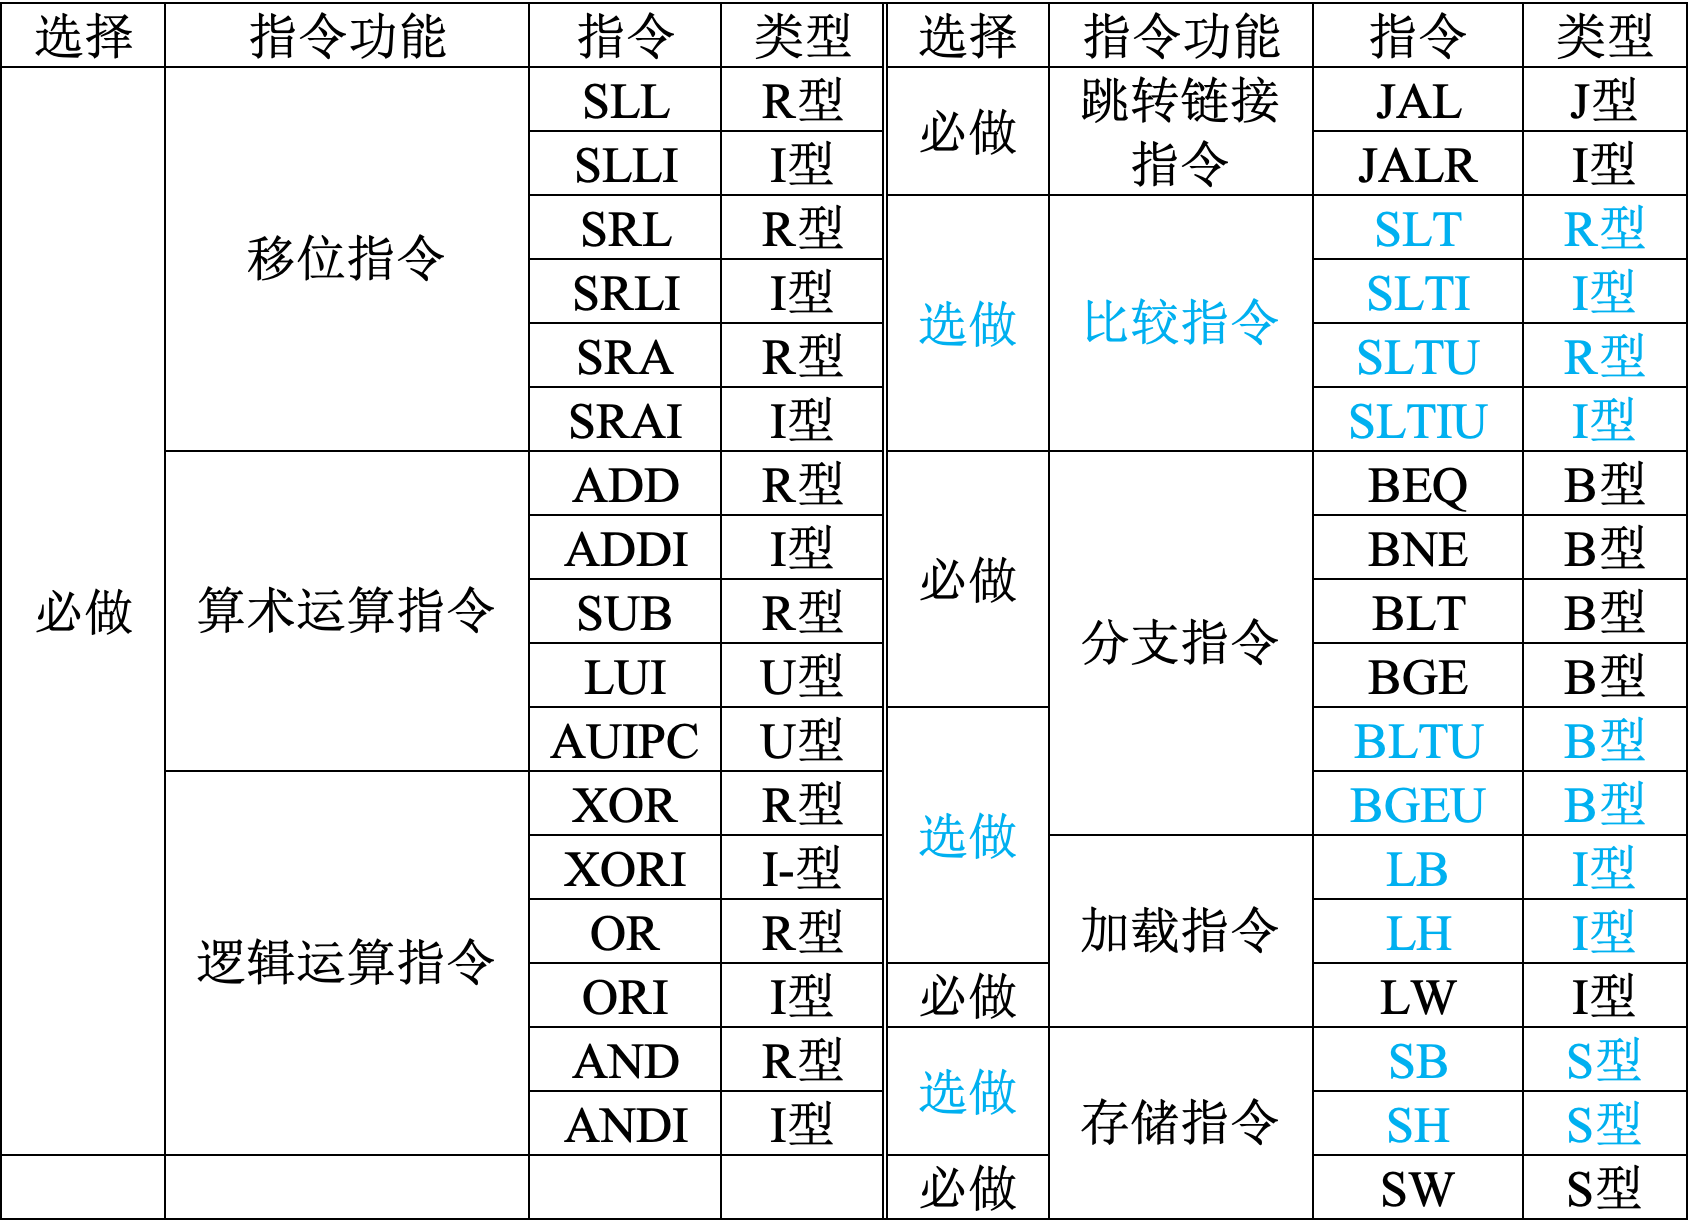
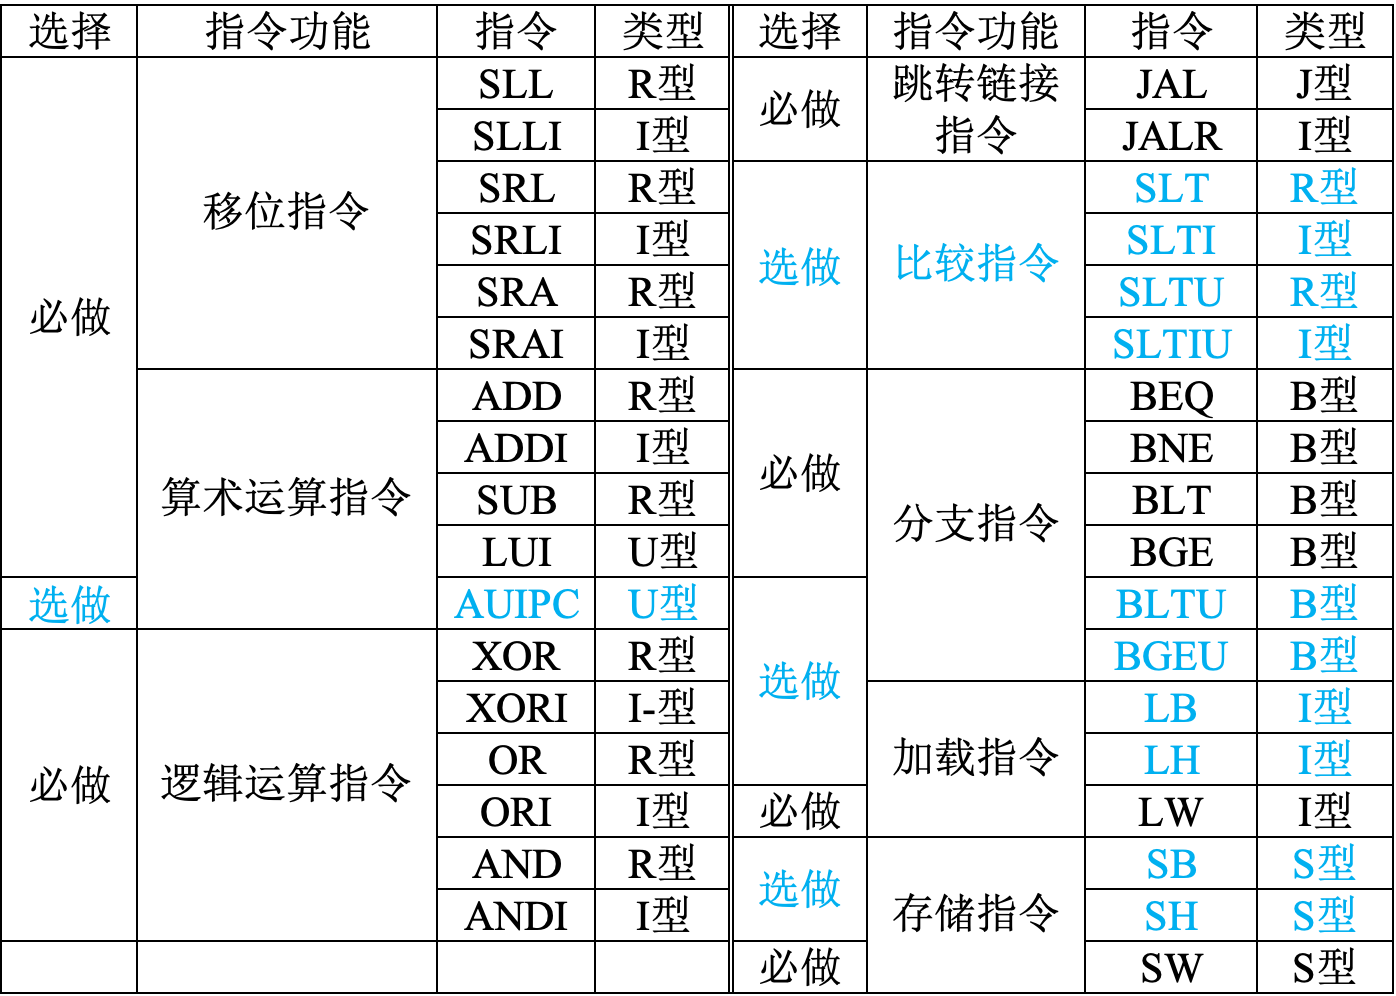
upload lab2

diff --git a/docs/lab2/6-verify.md b/docs/lab2/6-verify.md
@@ -1,46 +1,26 @@
-# 单周期CPU功能测试
+&emsp;&emsp;在数字逻辑设计的实验课程中，我们已经学习了如何使用时序仿真来对数字电路进行功能验证。所谓仿真，指的是基于软件模拟 (而非电路实测)的方法来验证电路功能，其基本原理如图7-1所示。
 
-本实验使用test_bench进行测试，相关文件见“单周期测试包”，所含文件如图，func目录下文件的作用可以查看"单周期测试包/func/Readme_firs.txt"。
+<center><img src = "../assets/7-1.png" width = 550></center>
+<center>图7-1 仿真原理</center>
 
-![测试文件](./asset/cpu_test/test_file_dir1.png)
+&emsp;&emsp;在图7-1中，我们给待验证电路 (DUT, Design Under Test) 添加一些特定的输入激励，然后观察DUT的输出结果是否符合我们的预期。其中，输入激励和输出结果的检查合称为test bench。
 
-测试文件参考龙芯杯竞赛提供的测试方法，单周期、多周期、流水等都可以使用，测试的原理是检测PC、寄存器写使能、写入寄存器号、写入寄存器的数据，这四者是否对应。
-所以需要正确引出debug_wb_pc、debug_wb_rf_wen、debug_wb_rf_wnum、debug_wb_rf_wdata这四根信号，才能使用该测试文件。同时，顶层文件中的CPU时钟命名为clock。
+&emsp;&emsp;显然，CPU也是数字电路，当然也可以采用时序仿真的方法对其进行功能验证，但验证效率较低。一方面，CPU的顶层模块通常只包含时钟、复位以及和存储芯片及外设进行交互的信号。仅通过对顶层模块进行验证，验证结果一旦出错，难以定位错误点。因此，只能分模块进行验证，或者借助外设输出相应的调试信息。另一方面，出错点很有可能在通过测试程序的逻辑路径传递很远之后，才能被发现。为了提高验证效率，可以将图7-1中的输入激励从物理信号更换成一段特定的指令序列，并通过观察程序执行结果来验证CPU功能。这种方法虽然大幅提高了验证效率，但无法解决难以定位错误点的问题。
 
-## 添加debug信号
-为支持指定tb，需要在顶层模块中共加入4个debug信号，具体信号如图所示，各信号功能参见对应注释。
+&emsp;&emsp;一种更好的验证方法是使用Trace比对，这也是本课程所使用的方法。所谓Trace，是指CPU执行指令序列时产生的信息 (包括PC和写寄存器的信息等)。
 
-![加入debug信号](./asset/cpu_test/debug_singal_code.png)
+&emsp;&emsp;Trace比对的基本原理如图7-2所示。
 
+<center><img src = "../assets/7-2.png" width = 500></center>
+<center>图7-2 Trace比对的基本原理</center>
 
-## 更新指令存储器中的程序
-运行simulation需要把提供的测试程序代码存入指令存储器中。如下图所示，将所给的"单周期测试包/inst_ram.coe"作为初始化文件加载到rom IP核。
-![加入debug信号](./asset/cpu_test/load_file.png)
+&emsp;&emsp;使用Trace比对进行CPU功能验证的基本方法是：
 
-## 添加测试相关文件
-添加全局的仿真文件mycpu_tb.v，方式同添加模块仿真文件，即右键"add sources"添加，内容参考所给的tb文件。 注意信号名是否与自己所写的模块是否一致，如不一致可以修改tb。
-另外所给mycpu_tb.v文件里的led2N4等信号在上板时才用到的，这里需要注释掉，即屏蔽tb文件中的下列信号
+&emsp;&emsp;(1) 用已知功能正确的CPU运行测试程序，记录Trace0 (Golden Trace)；
 
-![信号注释](./asset/cpu_test/signal_unmask.png)
+&emsp;&emsp;(2) 用待验证CPU运行相同的测试程序，产生Trace1；
 
-因mycpu_tb.v会从"golden_trace.txt"读取数据，需手动将该文件放在项目xx\minisys.sim\sim_1\behav\xsim目录下。
+&emsp;&emsp;(3) 将Trace1和Trace0进行实时比对，如果出现不同，立即报错并停止。
 
-## Run Simulation
-
-右键mycpu_tb.v进行"set as top"设置，执行"Run Simulation"，运行结束后会看到对应的波形，在tcl console窗口往上拉也可以看到是否通过的日志。
-
-执行"RUN ALL"可以看到tcl控制台的日志输出
-![run all](./asset/cpu_test/run_all.png)
-
-如果显示PASS则为通过
-![pass](./asset/cpu_test/test_success.png)
-
-## 根据提示查找错误
-如果不通过则结合日志信息和波形进行分析
-![failed](./asset/cpu_test/failed.png)
-
-波形分析时注意看pc地址变化时的值
-![波形分析](./asset/cpu_test/signal_info.png)
-
-inst_ram.coe机器码对应的汇编代码是"单周期测试包/func/obj/test.s"，可以根据PC值查看制定的代码。 
-![汇编文件](./asset/cpu_test/test_s_file.png)
+!!! PS
+    需要注意的是，Store指令执行时不存在寄存器写操作。这意味着如果Store指令出错，那么Trace比对法并不能立即发现并定位错误点，而只能在后续相关的Load指令出错 (并且一定会出错) 时报错并停止。

diff --git a/docs/lab2/4-ctrler.md b/docs/lab2/4-ctrler.md
@@ -1,13 +1,38 @@
-&emsp;&emsp;控制器的职责是根据指令的opcode和funct域计算每条指令在执行时控制信号取指。指令的控制信号包括根据指令控制部件完成不同功能的信号、部件的使能和多路选择器的选择控制，
+&emsp;&emsp;数据通路包含了完成处理器所要求的操作所必须的硬件，但数据通路要在控制器的控制下才能有条不紊地工作，才能正确地运行程序并得出程序员想要的结果。
 
-&emsp;&emsp;同时，还包括与控制相关的返回信号。我们可以由数据通路表中的部件及输入、输出情况推导出控制信号，如下图示例。
+&emsp;&emsp;控制器的功能是根据指令的功能码 (funct7和funct3)，产生指令执行所需的控制信号。控制信号一般包括3类：功能选择信号、多路选择信号和分支控制信号，如表5-1所示。
 
-![指令数据通路表](./asset/ctrl/instruction_model_2.png)
+<center>表5-1 控制信号分类</center>
+<center>
 
-&emsp;&emsp;接下来把控制信号添加到之前的数据通路结构图中，形成完整的数据通路结构图，如下
+| 控制信号类别 | 作用 | 数据通路的相关部件 |
+| :-: | :- | :- |
+| 操作选择信号 | 执行某条指令时，选择部件需要完成哪个操作 | 多功能部件 (如NPC、SEXT、ALU、RF、DRAM等) |
+| 多路选择信号 | 对多输入源进行选择 | 多路选择器 |
+| 分支控制信号 | 控制分支指令是否跳转 | ALU |
 
-![指令完整数据通路结构图](./asset/ctrl/full_data_path.png)
+</center>
 
-&emsp;&emsp;接下来，我们要确定控制信号的取值。根据上图，结合数据通路表及指令功能填写控制信号的取值表。
+!!! PS
+    之所以把RF、DRAM等存储器看作多功能部件，是因为它们兼有读数据、写数据2个功能。从这个角度看，写使能信号的功能就是控制存储器需要完成读操作还是写操作。换言之，使能信号也属于一种操作选择信号。
 
-![控制信号矩阵取值](./asset/ctrl/value_matrix.png)
+&emsp;&emsp;为了设计控制器，我们首先需要确定数据通路需要哪些控制信号。
+
+&emsp;&emsp;在上一节“数据通路设计”中，我们通过分析和综合，得出了整个CPU的数据通路。现在，让我们在表4-1的基础上进行扩展——在“完整”的下方新增“操作选择信号”、“多路选择信号”和“分支控制信号”三行；然后通过分析数据通路，得出每个功能部件所需的控制信号，并填入表中，如表5-2所示。
+
+<center>表5-2 扩展数据通路表，添加控制信号</center>
+<center><img src = "../assets/t5-2.png"></center>
+
+&emsp;&emsp;接下来，只需要把控制单元和控制信号添加到数据通路图中，即可得到形如图5-1的完整数据通路图。
+
+<center><img src = "../assets/5-1.png" width = 500></center>
+<center>图5-1 完整数据通路图 (示例)</center>
+
+&emsp;&emsp;确定了数据通路所需的控制信号之后，我们还需要确定控制信号的取值，进而得出每个控制信号的真值表。
+
+&emsp;&emsp;根据完整的数据通路图，结合数据通路表及指令功能，填写形如表5-3所示的控制信号取值表。
+
+<center>表5-3 控制信号取值表 (示例)</center>
+<center><img src = "../assets/t5-3.png" width = 550></center>
+
+&emsp;&emsp;确定了各控制信号的取值之后，就可以使用卡诺图对每个控制信号的逻辑表达式进行化简，最终完成控制单元的设计。

diff --git a/docs/lab2/3-datpth.md b/docs/lab2/3-datpth.md
@@ -1,12 +1,24 @@
-&emsp;&emsp;根据每条指令的描述及其指令格式，推演出指令执行过程包括的功能部件及其输入输出信号之间的连接关系，即指令级数据通路。
+&emsp;&emsp;在上一节“功能部件设计”中，我们为数据通路的路径设计了所需的“顶点”。现在，我们需要根据指令功能，将这些功能部件连接起来，形成路径的“边”。
+
+&emsp;&emsp;设计数据通路的基本思想是：根据每条指令的功能描述和指令格式，推演出指令执行过程所需的功能部件及其输入输出信号之间的连接关系，即指令级数据通路。
 
 &emsp;&emsp;在推演的过程中，还将分析功能部件需要执行的具体功能，并据此再推演相应的控制信号取值。
 
-&emsp;&emsp;在建模过程中，可能会面临基本功能部件不满足需求的问题，因此需要修改并完善已有基础功能部件，或者设计新的功能部件。
+&emsp;&emsp;本课程采用表格驱动设计的方法来构建数据通路，即通过数据通路表来描述数据通路。表4-1给出了7条miniRV-1指令构建数据通路表的示例。
 
-&emsp;&emsp;我们采用构建数据通路表的方式来描述数据通路，下图为8条指令构建的数据通路表示例。
-![指令建模](./asset/data_path/instruction_model.png)
+<center>表4-1 表格驱动的数据通路设计示例</center>
+<center><img src = "../assets/t4-1.png"></center>
 
-&emsp;&emsp;在数据通路表中，有些功能部件的输入信号具有2个以上的输入源，如RF的A3端口有3个输入来源。根据数字电路知识可知，需要部署一个MUX来实现上述需求。综合数据通路表，添加需要的MUX，或者采用其他方式处理多输入源的问题，如添加输入端口。综合数据通路表，构建数据通路结构图。
+!!! Tips
+    需要注意的是，表4-1所示的数据通路表仅仅是一个示例。在建模过程中，可能会面临基本功能部件不满足需求的问题，因此需要修改并完善已有基础功能部件，或者设计新的功能部件。
 
-![数据通路框架](./asset/data_path/data_path.png)
+&emsp;&emsp;对所有的指令进行分析，并将数据通路表填写完整后，就得到了每一条指令执行时的数据通路。为了设计CPU，我们还需要将所有指令的数据通路综合起来。
+
+&emsp;&emsp;综合的方法是：在如表4-1所示的数据通路表的最后新增一行“完整”，代表CPU的整个数据通路；然后将各个部件的输入信号全部整合到最后一行。
+
+&emsp;&emsp;在数据通路表中，有些功能部件的输入信号具有2个以上的输入源，如RF的wD端口有3个输入来源。我们已经学习过数字逻辑设计的课程，可知此时需要新增一个多路选择器来满足此需求。因此，在综合数据通路表时，需要视情况添加多路选择器 (或采用其他方式处理多输入源的问题，如添加输出端口等)，如图4-1所示。
+
+<center><img src = "../assets/4-1.png" width = 500></center>
+<center>图4-1 添加多路选择器，以解决多输入源的问题</center>
+
+&emsp;&emsp;最后，可将综合完成的数据通路表图形化，从而构建出CPU的数据通路图。

diff --git a/docs/lab2/5-timing.md b/docs/lab2/5-timing.md
@@ -1,30 +1,10 @@
-&emsp;&emsp;首先CPU中的部件可分为两大类：组合逻辑部件、时序逻辑部件。
+&emsp;&emsp;CPU内部既包含时序逻辑部件 (如PC、RF、DRAM)，也包含组合逻辑部件 (如IROM、控制单元、ALU等)。
 
-## 1. 组合逻辑部件
-&emsp;&emsp;运算器和控制器都是组合逻辑部件，组合逻辑部件当输入端信号的状态改变后，经过一定的逻辑门延迟时间，输出端的状态就会发生变化，并且一直维持到输入端状态再次发生变化。每个部件的延迟时间不等，但都是一小段的时间完成。如下图的实现方法中，Add指令除PC、RF为时序逻辑部件外，其他均为组合逻辑部件。
+&emsp;&emsp;对于时序逻辑电路，输入信号需要在时钟信号的有效边沿处满足相应的建立时间和保持时间的要求，而输出信号则相比时钟有效边沿存在一定的输出延迟。
 
-![时序逻辑部件分析](./asset/clk_seq/circuit_analyse.png)
+&emsp;&emsp;对于组合逻辑电路，当输入端信号发生改变，经过一定的逻辑门电路的延时，输出端就会发生相应的变化，并且一直维持直到输入端再次发生变化。
 
-## 2. 时序逻辑部件
+&emsp;&emsp;因此，CPU在执行指令时，会存在寄存器输出延迟、IROM读延迟、控制单元输出延迟、ALU运算延迟、寄存器写延迟等，这些延迟统称为指令的执行延迟。对于ADD指令，其执行延迟及时序如图6-1所示。
 
-&emsp;&emsp;PC、寄存器堆、存储器等需要存储数据的部件，一般是需要时序部件来完成，在完成数据改变的时候，需要一个时钟沿触发。
-
-&emsp;&emsp;在一条指令实现的数据通路上，完成串行的数据改变，需要不同的时钟沿来触发。
-
-&emsp;&emsp;例如下图的设计，其中PC、RF、DM在指令执行过程中，都需要改变值，必须是时序部件，第一个上升沿改变PC的值，第二个上升沿写回RF、DM，写入的内容下一个时钟周期才可读。
-
-![cpu实现组成](./asset/clk_seq/cpu_structure.png)
-
-![cpu顶层框架](./asset/clk_seq/im_dm.png)
-
-&emsp;&emsp;如果采用上述的设计，IM不能采用时序部件来实现。可以采用[Distributed Memory IP](https://www.xilinx.com/xsw/dist_mem_gen) （LUT-based）来实现，
-
-&emsp;&emsp;但是这个IP核的存储容量相对较小，Depth：16-65536，Data Width：1-1024，可以满足我们实验的要求。
-
-&emsp;&emsp;时序如上图Add指令，写回寄存器与写回存储器都在周期末的下一个上升沿。
-
-&emsp;&emsp;IM、DM通常会使用时序部件IP核Block Memory实现，Block Memory是一个时序部件，读写都需要时钟沿触发。
-
-&emsp;&emsp;这样就需要保证其地址在时钟上升沿采样的时候已经准备好，要求PC和IM采用不同的时钟沿触发。在本实验要求的单周期设计中，可以使用如下方式实现：在时钟下降沿准备好PC，时钟上升沿读IM，下一个时钟下降沿读、写DM，上升沿回写RF。如下图所示。
-
-![block memory clk](./asset/clk_seq/bm_clk.png)
+<center><img src = "../assets/6-1.png" width = 500></center>
+<center>图6-1 add指令执行延迟分析</center>

diff --git a/docs/lab2/7-macros.md b/docs/lab2/7-macros.md
@@ -1,30 +1,52 @@
-# 实验注意事项
+&emsp;&emsp;不管是使用高级语言进行软件开发，还是使用HDL进行硬件设计，都要尽量遵循代码可配置的原则。对于常量或参数，应当在代码中使用宏定义的方式来引用。使用宏定义，不仅可以保证代码具有良好的可配置性，还能提高代码的规范性和可读性。
 
-## 宏定义使用
-类似于c等高级语言开发，应避免在代码中使用魔数，而多使用const或宏定义。Verilog同样定义了宏定义，在如下的场景中，使用宏定义可以提高代码可读性，方便维护
+&emsp;&emsp;我们在“控制单元设计”的一节中，设计了如表5-2所示的控制信号取值表。应该注意到，明明是控制信号的取值表，表中的npc_op和alu_op却用字符串作为信号取值，显得“格格不入”。事实上，npc_op和alu_op的取值就是以宏定义的方式来表示的。将npc_op、alu_op与其他控制信号相比，可以发现宏定义的表达方式不仅更方便阅读、更容易为人所理解，而且有利于代码维护。
 
-![宏定义场景](./asset/value_matrix.png)
+&emsp;&emsp;下面简要介绍如何在Verilog HDL中使用宏定义：
 
+&emsp;&emsp;(1) 新建一个独立的.v文件 (如param.v)，用来编写宏定义；
 
-宏定义使用举例：  
-1.新建参数模块文件（我命名为para.v）;
+&emsp;&emsp;(2) 使用``define`关键字定义宏参数，如图8-1所示。
 
-2.在para.v文件中使用'define宏定义参数:
-```angular2
-　　　　//`define+name+参数 　
-　　　　`define 　　STATE_INIT　　  3'd0
-　　　　`define 　　STATE_IDLE　 　 3'd1
-　　　　`define 　　STATE_WRIT　　  3'd2
-　　　　`define 　　STATE_READ　　  3'd3
-　　　　`define 　　STATE_WORK     3'd4
-　　　　`define 　　STATE_RETU　　  3'd5      //参数后面不能有分号
+``` Verilog
+// file: param.v
+`ifndef CPU_PARAM
+`define CPU_PARAM
+
+    // syntax: `define <macro name> <parameter>
+    `define ADD     'b000
+    `define SUB     'b001
+    `define OR      'b010
+    `define AND     'b011
+    ......
+
+    `define STATE_IDLE 'b0001
+    `define STATE_WRIT 'b0010
+    `define STATE_WORK 'b0100
+    `define STATE_RETU 'b1000
+    ......
+
+`endif
 ```
+<center>图8-1 Verilog HDL定义宏参数的语法</center>
 
-3.在需要调用参数的文件init.v中使用`include "para.v",使用`name进行调用。 
-```angular2
-　　　　`include "para.v"
-        ...
-        state_init <= `STATE_INIT;
+&emsp;&emsp;(3) 有2种方法可以引用param.v：
+
+&emsp;&emsp;&emsp;&emsp;1) 在Vivado中，将宏定义文件设置成全局引用，如图8-2所示。
+
+<center><img src = "../assets/8-2.png" width = 400></center>
+<center>图8-2 设置宏定义文件为全局引用</center>
+
+&emsp;&emsp;&emsp;&emsp;2) 在需要调用参数的源文件中使用``include "param.v"`引用，如图8-3所示。 
+
+``` Verilog
+`include "param.v"
+
+    ......
+
+    state_init <= `STATE_IDLE;
 ```
+<center>图8-3 调用宏参数</center>
 
-　　　　
+!!! PS
+    出于代码规范性考虑，建议使用第一种方法来引用宏定义，尽量不使用第二种方法。

diff --git a/docs/lab2/2-parts.md b/docs/lab2/2-parts.md
@@ -203,7 +203,7 @@ dram U_dram (
 
 &emsp;&emsp;miniRV-1含有32个32位寄存器，详细说明见上一节“miniRV-1指令集”中的“miniRV-1通用寄存器”。
 
-&emsp;&emsp;从上一节可知，一条指令最多具有3个寄存器号，这决定了寄存器堆必须具有3个端口————2个读端口 (对应rs1和rs2)和1个写端口 (对应rd)，如图3-17所示。
+&emsp;&emsp;从上一节可知，一条指令最多具有3个寄存器号，这决定了寄存器堆必须具有3个端口——2个读端口 (对应rs1和rs2)和1个写端口 (对应rd)，如图3-17所示。
 
 <center><img src = "../assets/3-17.png" width = 160></center>
 <center>图3-17 寄存器堆模块图</center>
@@ -216,4 +216,4 @@ dram U_dram (
 &emsp;&emsp;ALU是算术逻辑运算单元，负责完成CPU中的算术、逻辑、移位和比较等运算。因此，在设计ALU的时候，需要先设计完成各类运算的子部件，然后使用译码器来控制ALU在运行时使用的具体子部件，并使用多路选择器产生ALU输出，如图3-18所示。
 
 <center><img src = "../assets/3-18.png" width = 300></center>
-<center>图3-18 寄存器堆模块图</center>
+<center>图3-18 ALU模块图</center>

diff --git a/docs/lab2/0-overview.md b/docs/lab2/0-overview.md
@@ -14,7 +14,7 @@
 
 &emsp;&emsp;本实验要求同学们在Minisys开发板 (芯片型号：<font color = blue>**XC7A100TFGG484-1**</font>) 上实现miniRV-1指令集的单周期CPU。
 
-&emsp;&emsp;miniRV-1指令集如表1-1所示。其中，黑色字体的25条指令必做，蓝色字体的10条选做。
+&emsp;&emsp;miniRV-1指令集如表1-1所示。其中，黑色字体的24条指令必做，蓝色字体的11条选做。
 
 <center>表1-1 miniRV-1指令概述</center>
 <center><img src = "../assets/1-1.png" width = 600></center>

diff --git a/docs/lab2/1-inst.md b/docs/lab2/1-inst.md
@@ -445,7 +445,7 @@ lui t0, 0xABCDE    ; (t0) ← 0xABCDE000, (PC) ← (PC) + 4
 ```
 </center>
 
-#### auipc  
+#### *auipc* (<font color = DodgerBlue>**选**</font>)  
 - 指令名：PC加立即数  
 - 使用语法：auipc rd, imm  
 - 功能描述：把符号扩展的20位立即数逻辑左移12位，再加到PC上，结果写入寄存器rd。  
